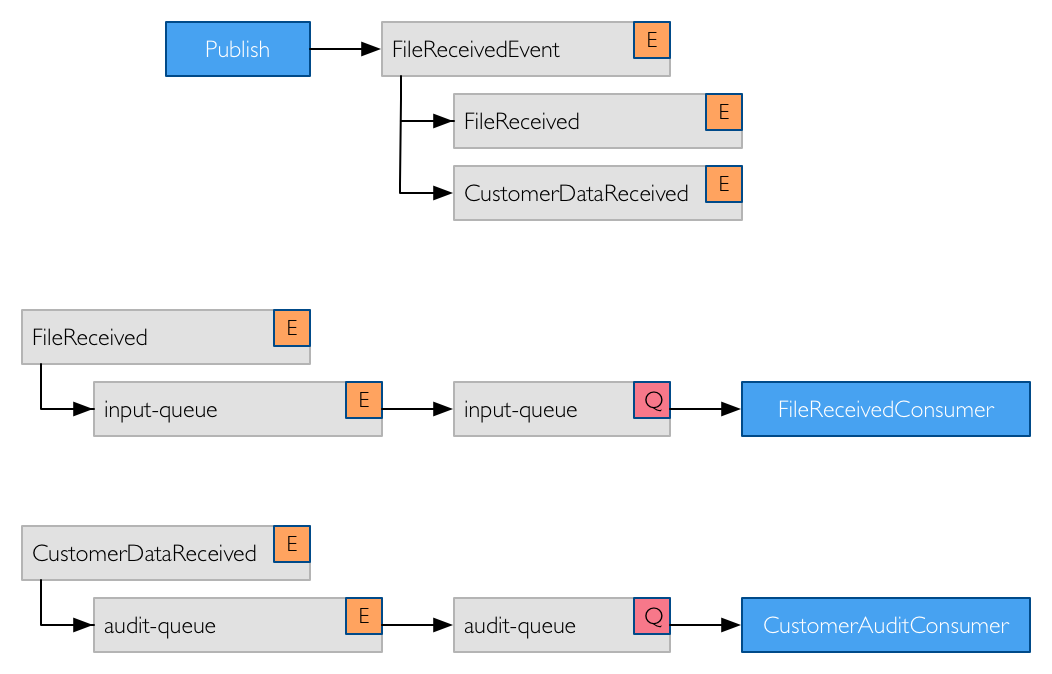
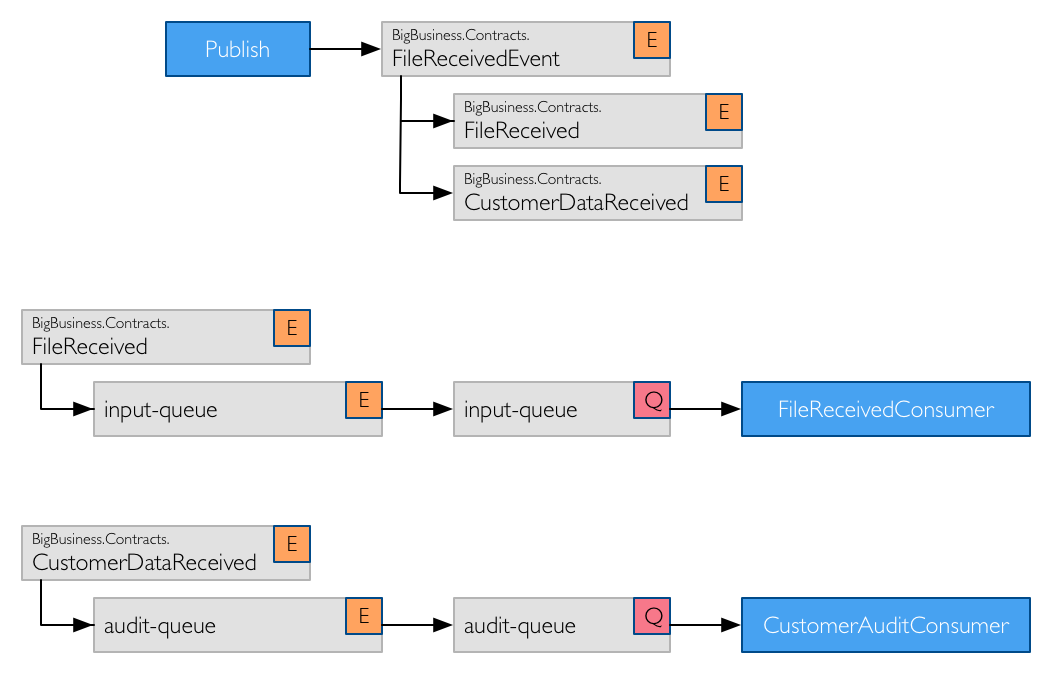
More topology documentation

diff --git a/docs/understand/default-topology.md b/docs/understand/default-topology.md
@@ -77,27 +77,120 @@ class ProcessFileConsumer :
 ```
 
 
-
-
 ## RabbitMQ
 
 ### Publish
 
-The exchanges and queues configures for the event example are as follows:
-
 ![rabbitmq-publish-topology](images/rabbitmq-publish-topology.png)
+
+The event publisher, upon publishing a message, ensures that:
+
+- An exchange named `BigBusiness.Contracts.FileReceivedEvent` is declared, matching the class name being published.
+- An exchange named `BigBusiness.Contracts.FileReceived` is declared, matching the interface name implemented by the `FileReceivedEvent` class.
+  - An exchange binding between the `BigBusiness.Contracts.FileReceivedEvent` exchange and the `BigBusiness.Contracts.FileReceived` exchange is declared.
+- An exchange named `BigBusiness.Contracts.CustomerDataReceived` is declared, matching the interface name implemented by the `FileReceivedEvent` class.
+  - An exchange binding between the `BigBusiness.Contracts.FileReceivedEvent` exchange and the `BigBusiness.Contracts.CustomerDataReceived` exchange is declared.
+
+The receive endpoint on the `input-queue`, when the bus is started, ensures that:
+
+- An exchanged named `input-queue` is declared, matching the queue name.
+- A queue named `input-queue` is declared.
+  - A queue binding between the `input-queue` exchange and the `input-queue` queue is declared.
+- An exchange named `BigBusiness.Contracts.FileReceived` is declared, matching the interface name consumed by the `FileReceivedConsumer` class.
+  - An exchange binding between the `BigBusiness.Contracts.FileReceived` exchange and the `input-queue` exchange is declared.
+
+The receive endpoint on the `audit-queue`, when the bus is started, ensures that:
+
+- An exchanged named `audit-queue` is declared, matching the queue name.
+- A queue named `audit-queue` is declared.
+  - A queue binding between the `audit-queue` exchange and the `audit-queue` queue is declared.
+- An exchange named `BigBusiness.Contracts.CustomerDataReceived` is declared, matching the interface name consumed by the `CustomerAuditConsumer` class.
+  - An exchange binding between the `BigBusiness.Contracts.CustomerDataReceived` exchange and the `audit-queue` exchange is declared.
+
+<div class="alert alert-info">
+<b>Note:</b>
+    All declared exchanges are Fanout by default.
+</div>
+
+<div class="alert alert-info">
+<b>Important!:</b>
+If a message is published before bus containing the receive endpoint is started, the receive endpoint topology will not have been created. Without the consumer end of the topology, messages sent to the exchange will disappear as there are no bindings in place. If you need to guarantee the published message is delivered, consider setting `Mandatory` to true on the `RabbitMqSendContext`. This will throw an exception if a message is published and there are no exchange bindings in place.
+</div>
 
 ### Send
 
-The exchanges and queues for the send example are shown.
-
 ![rabbitmq-send-topology](images/rabbitmq-send-topology.png)
 
+The command sender, upon sending a message, ensures that:
+
+- An exchange named `service-queue` is declared, matching the name in the endpoint address.
+
+The receive endpoint on the `service-queue`, when the bus is started, ensures that:
+
+- An exchanged named `service-queue` is declared, matching the queue name.
+- A queue named `service-queue` is declared.
+  - A queue binding between the `service-queue` exchange and the `service-queue` queue is declared.
+- An exchange named `BigBusiness.Contracts.ProcessFile` is declared, matching the interface name consumed by the `ProcessFileConsumer` class.
+  - An exchange binding between the `BigBusiness.Contracts.ProcessFile` exchange and the `service-queue` exchange is declared.
+
+<div class="alert alert-info">
+<b>Important!:</b>
+The same rule for publish applies to send, if the consumer topology isn't setup by the receive endpoint, messages will disappear.
+</div>div>
+
+## Azure Service Bus
+
+### Publish
+
+![servicebus-publish-topology](images/servicebus-publish-topology.png)
+
+The event publisher, upon publishing a message, ensures that:
+
+- A topic named `BigBusiness.Contracts.FileReceived` is created, matching the interface name implemented by the `FileReceivedEvent` class.
+- A topic named `BigBusiness.Contracts.CustomerDataReceived` is created, matching the interface name implemented by the `FileReceivedEvent` class.
+
+The receive endpoint on the `input-queue`, when the bus is started, ensures that:
+
+- A queue named `input-queue` is created.
+- A topic named `BigBusiness.Contracts.FileReceived` is created, matching the interface name consumed by the `FileReceivedConsumer` class.
+  - A subscription on the `BigBusiness.Contracts.FileReceived` topic, which forwards to the `input-queue` queue is created.
+
+The receive endpoint on the `audit-queue`, when the bus is started, ensures that:
+
+- A queue named `audit-queue` is created.
+- A topic named `BigBusiness.Contracts.CustomerDataReceived` is created, matching the interface name consumed by the `CustomerAuditConsumer` class.
+  - A subscription on the `BigBusiness.Contracts.CustomerDataReceived` topic, which forwards to the `audit-queue` queue is created.
+
+<div class="alert alert-info">
+<b>Important!:</b>
+If a message is published before bus containing the receive endpoint is started, the receive endpoint topology will not have been created. Without the consumer end of the topology, messages sent to the exchange will disappear as there are no subscriptions in place.
+</div>
+
+### Send
+
+![servicebus-send-topology](images/servicebus-send-topology.png)
+
+The command sender, upon sending a message, ensures that:
+
+- A queue named `service-queue` is created, matching the name in the endpoint address.
+
+The receive endpoint on the `service-queue`, when the bus is started, ensures that:
+
+- A queue named `service-queue` is created.
+- A topic named `BigBusiness.Contracts.ProcessFile` is created, matching the interface name consumed by the `ProcessFileConsumer` class.
+  - A subscription on the `BigBusiness.Contracts.ProcessFile` topic, which forwards to the `service-queue` queue is created.
+
+<div class="alert alert-info">
+<b>Important!:</b>
+The same rule for publish applies to send, if the consumer topology isn't setup by the receive endpoint, messages will disappear.
+</div>div>
 
 
+### Sneak Peak - Publish
 
+In an upcoming release of MassTransit, the same polymorphic behavior of RabbitMQ will also be supported by Azure Service Bus, as shown below.
 
-
+![servicebus-publish-topology-next](images/servicebus-publish-topology-next.png)
 
 
 

diff --git a/docs/understand/under-the-hood.md b/docs/understand/under-the-hood.md
@@ -1,62 +1,58 @@
 # Under the hood
 
-MassTransit hides all the details of messages and delivery from the developer. 
-However, when there are issues it is important to know how it works so you can troubleshoot the issues.  
+MassTransit hides much of the complexity, making it easier for developers to use messaging in their applications. However, when issues arise, it's important to understand how things work under the hood to effectively troubleshoot and resolve the issues.
 
 ## Setup
-To see how this plays out, consider the following message types:
+
+First, there are two parts to this discovery, the first is purely about the framework (MassTransit) features and the second goes into how the various transports are leveraged to support the framework features.
+
+[The Second](default-topology.md) article has nice graphics too!
+
+Consider the following message, it's a command telling a service to process a file.
 
 ```csharp
-namespace MySystem.Messages {
-    interface SomeMessage {}
+namespace BigBusiness.Contracts
+{
+  interface ProcessFile
+  {
+    Guid FileId { get; }
+    Uri Location { get; }
+  }
 }
 ```
 
-Configure the bus that will listen to `SomeMessage` with an endpoint of `my_endpoint`.
+In code, the developer would create a consumer and a receive endpoint that consumes that command.
 
-## Starting a bus 
+```csharp
+class ProcessFileConsumer :
+  IConsumer<ProcessFile>
+{
+}
+```
 
-When creating the endpoint above you indicated the name of the queue where the messages will end up. 
-See queue naming rules below.  Starting the bus with the consumers registered, causes the following configuration to happen:
+The receive endpoint in this example will use `service-queue` for the queue name.
 
- - A queue named `my_endpoint`is created for all messages on this endpoint
- - An exchange named `my_endpoint` is created for all messages on this endpoint
- - An exchange named `MySystem.Messages.SomeMessage`is created for the message
- - An exchange to exchange binding from `MySystem.Messages.SomeMessage` to `my_endpoint` is created
- - A binding from the `my_endpoint` exchange to `my_endpoint` queue is created.
+```csharp
+cfg.ReceiveEndpoint("service-queue", e =>
+{
+  e.Consumer<ProcessFileConsumer>();
+});
+```
 
-<div class="alert alert-info">
-<b>Note:</b>
-    All exchanges created are of type FanOut
-</div>
-
-## Publishing a message
-
-When you publish a message on the bus here is what happens:
-
- - Publish `MySystem.Messages.SomeMessage`
- - This message gets published by the publishing logic to the exchange `MySystem.Messages.SomeMessage`
- - The message is routed by messaging infrastructure to the `my_endpoint` exchange
- - The message is then routed to the `my_endpoint` queue
-
-<div class="alert alert-info">
-<b>Note:</b>
-If you publish a message before the consumer has been started (and created its configuration), the exchange 
-<i>MySystem.Messages.SomeMessage</i> will be created. It will not be bound to anything until the consumer starts, 
-so if you publish to it, the message will just disappear.
-</div>
+MassTransit uses the definition of the message contract (`ProcessFile`), combined with the receive endpoint queue name (`service-queue`) to build out the topology on the broker (the details of which are covered in the [second](default-topology.md) part).
 
 ## Queues
 
  - Each application you write should use a unique queue name.
  - If you run multiple copies  of your consumer service, they would listen to the same queue (as they are copies).
-   This would mean you have multiple applications listening to `my_endpoint` queue
-   This would result in a 'competing consumer' scenario.  (Which is what you want if you run same service multiple times)
- - If there is an exception from your consumer, the message will be sent to `my_endpoint_error` queue.
+   This would mean you have multiple applications receiving messages from `service-queue` 
+   This would result in a 'competing consumer' scenario, which is commonly used for load-balancing across servers.  (Which is what you want if you run same service multiple times)
+ - If there is an exception from your consumer, the message will be sent to `service-queue-error` queue.
  - If a message is received in a queue that the consumer does not know how to handle, the message will be sent 
-   to `my_endpoint_skipped` queue.
+   to `service-queue-skipped` queue.
 
 ## Design Benefits
+
  - Any application can listen to any message and that will not affect any other application that may or may not be listening for that message
  - Any application(s) that bind a group of messages to the same queue will result in the competing consumer pattern.
  - You do not have to concern yourself with anything but what message type to produce and what message type to consume.
